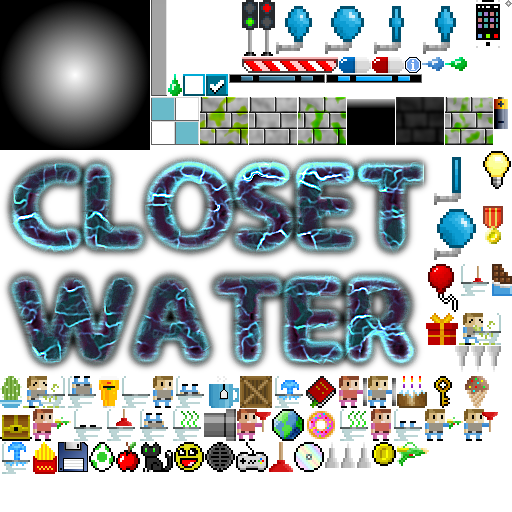
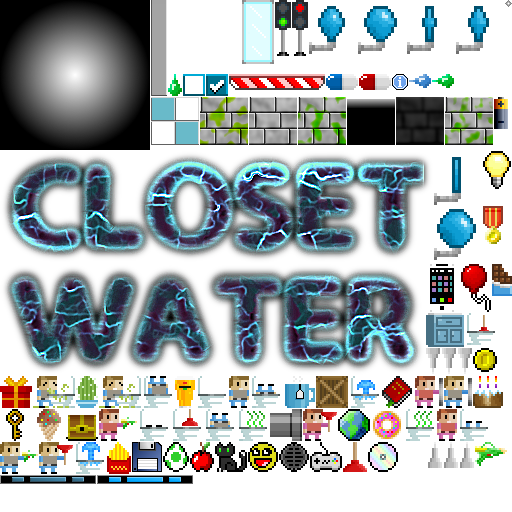
Ending update.

Changed region(s): [[0.0, 0.5, 1.0, 0.9688], [0.4375, 0.0, 1.0, 0.1875]]

diff --git a/src/entities/decoration.c b/src/entities/decoration.c
@@ -1,0 +1,68 @@
+/*
+Copyright (C) 2019 Parallel Realities
+
+This program is free software; you can redistribute it and/or
+modify it under the terms of the GNU General Public License
+as published by the Free Software Foundation; either version 2
+of the License, or (at your option) any later version.
+
+This program is distributed in the hope that it will be useful,
+but WITHOUT ANY WARRANTY; without even the implied warranty of
+MERCHANTABILITY or FITNESS FOR A PARTICULAR PURPOSE.
+
+See the GNU General Public License for more details.
+
+You should have received a copy of the GNU General Public License
+along with this program; if not, write to the Free Software
+Foundation, Inc., 59 Temple Place - Suite 330, Boston, MA  02111-1307, USA.
+
+*/
+
+#include "decoration.h"
+
+static void load(cJSON *root);
+static void save(cJSON *root);
+
+void initDecoration(Entity *e)
+{
+	Decoration *d;
+	
+	d = malloc(sizeof(Decoration));
+	memset(d, 0, sizeof(Decoration));
+	
+	STRNCPY(d->textureFilename, "gfx/decoration/cabinet.png", MAX_NAME_LENGTH);
+	
+	e->typeName = "decoration";
+	e->type = ET_DECORATION;
+	e->data = d;
+	e->facing = 1;
+	e->atlasImage = getAtlasImage(d->textureFilename, 1);
+	e->w = e->atlasImage->rect.w;
+	e->h = e->atlasImage->rect.h;
+	e->flags = EF_WEIGHTLESS+EF_NO_ENT_CLIP+EF_STATIC;
+	
+	e->load = load;
+	e->save = save;
+}
+
+static void load(cJSON *root)
+{
+	Decoration *d;
+	
+	d = (Decoration*)self->data;
+	
+	STRNCPY(d->textureFilename, cJSON_GetObjectItem(root, "textureFilename")->valuestring, MAX_NAME_LENGTH);
+	
+	self->atlasImage = getAtlasImage(d->textureFilename, 1);
+	self->w = self->atlasImage->rect.w;
+	self->h = self->atlasImage->rect.h;
+}
+
+static void save(cJSON *root)
+{
+	Decoration *d;
+	
+	d = (Decoration*)self->data;
+	
+	cJSON_AddStringToObject(root, "textureFilename", d->textureFilename);
+}

diff --git a/src/entities/decoration.h b/src/entities/decoration.h
@@ -18,32 +18,9 @@ Foundation, Inc., 59 Temple Place - Suite 330, Boston, MA  02111-1307, USA.
 
 */
 
-#include "finalToilet.h"
+#include "../common.h"
+#include "../json/cJSON.h"
 
-static void touch(Entity *other);
+extern AtlasImage *getAtlasImage(char *filename, int required);
 
-void initFinalToilet(Entity *e)
-{
-	Toilet *t;
-	
-	t = malloc(sizeof(Toilet));
-	memset(t, 0, sizeof(Toilet));
-	
-	e->typeName = "finalToilet";
-	e->facing = 0;
-	e->type = ET_TOILET;
-	e->data = t;
-	e->atlasImage = getAtlasImage("gfx/entities/toilet.png", 1);
-	e->w = e->atlasImage->rect.w;
-	e->h = e->atlasImage->rect.h;
-	e->flags = EF_NO_ENT_CLIP+EF_STATIC;
-	e->touch = touch;
-}
-
-static void touch(Entity *other)
-{
-	if (other != NULL && other->type == ET_PLAYER)
-	{
-		stage.status = SS_GAME_COMPLETE;
-	}
-}
+extern Entity *self;

diff --git a/src/game/ending.c b/src/game/ending.c
@@ -29,15 +29,17 @@ static AtlasImage *darknessTexture;
 
 void initEnding(void)
 {
-	destroyStage();
+	stage.entityTail = &stage.entityHead;
+	stage.particleTail = &stage.particleHead;
+	stage.cloneDataTail = &stage.cloneDataHead;
+	
+	stage.num = 0;
 	
 	loadStage(0);
 	
 	initWipe(WIPE_FADE);
 	
 	darknessTexture = getAtlasImage("gfx/particles/darkness.png", 1);
-	
-	focusOnVomit();
 	
 	app.delegate.logic = logic;
 	app.delegate.draw = draw;
@@ -53,6 +55,8 @@ static void logic(void)
 static void draw(void)
 {
 	app.dev.drawing = 0;
+	
+	focusOnVomit();
 	
 	drawEntities(1);
 	

diff --git a/src/world/stage.c b/src/world/stage.c
@@ -42,6 +42,7 @@ static void restart(void);
 static void stats(void);
 static void options(void);
 static void quit(void);
+void destroyStage(void);
 
 static cJSON *stageJSON;
 static int cloneWarning;
@@ -162,6 +163,13 @@ static void logic(void)
 	}
 	
 	doCamera();
+	
+	if (stage.status == SS_GAME_COMPLETE)
+	{
+		destroyStage();
+		
+		initEnding();
+	}
 }
 
 static void doGame(void)

diff --git a/src/world/stage.h b/src/world/stage.h
@@ -53,6 +53,7 @@ extern AtlasImage *getAtlasImage(char *filename, int required);
 extern StageMeta *getStageMeta(int n);
 extern Widget *getWidget(const char *name, const char *groupName);
 extern void initClone(void);
+extern void initEnding(void);
 extern void initEntities(cJSON *root);
 extern void initMap(cJSON *root);
 extern void initOptions(void (*done)(void));

diff --git a/src/world/entityFactory.h b/src/world/entityFactory.h
@@ -41,6 +41,7 @@ extern void initTrafficLight(Entity *e);
 extern void initVomitToilet(Entity *e);
 extern void initWaterButton(Entity *e);
 extern void initWaterPistol(Entity *e);
+extern void initDecoration(Entity *e);
 
 extern Entity *self;
 extern Stage stage;

diff --git a/src/world/entityFactory.c b/src/world/entityFactory.c
@@ -50,6 +50,7 @@ void initEntityFactory(void)
 	addInitFunc("waterButton", initWaterButton);
 	addInitFunc("finalToilet", initFinalToilet);
 	addInitFunc("vomitToilet", initVomitToilet);
+	addInitFunc("decoration", initDecoration);
 	
 	entityId = 0;
 }

diff --git a/src/defs.h b/src/defs.h
@@ -81,7 +81,8 @@ enum
 	ET_BULLET,
 	ET_TRAP,
 	ET_SWITCH,
-	ET_VOMIT_TOILET
+	ET_VOMIT_TOILET,
+	ET_DECORATION
 };
 
 enum
@@ -173,7 +174,8 @@ enum
 {
 	SS_INCOMPLETE,
 	SS_COMPLETE,
-	SS_FAILED
+	SS_FAILED,
+	SS_GAME_COMPLETE
 };
 
 enum

diff --git a/src/structs.h b/src/structs.h
@@ -121,6 +121,10 @@ typedef struct {
 } Collectable;
 
 typedef struct {
+	char textureFilename[MAX_NAME_LENGTH];
+} Decoration;
+
+typedef struct {
 	float bobValue;
 	char textureFilename[MAX_NAME_LENGTH];
 } Item;

diff --git a/src/entities/finalToilet.h b/src/entities/finalToilet.h
@@ -23,3 +23,5 @@ Foundation, Inc., 59 Temple Place - Suite 330, Boston, MA  02111-1307, USA.
 
 extern AtlasImage *getAtlasImage(char *filename, int required);
 extern void initEnding(void);
+
+extern Stage stage;
